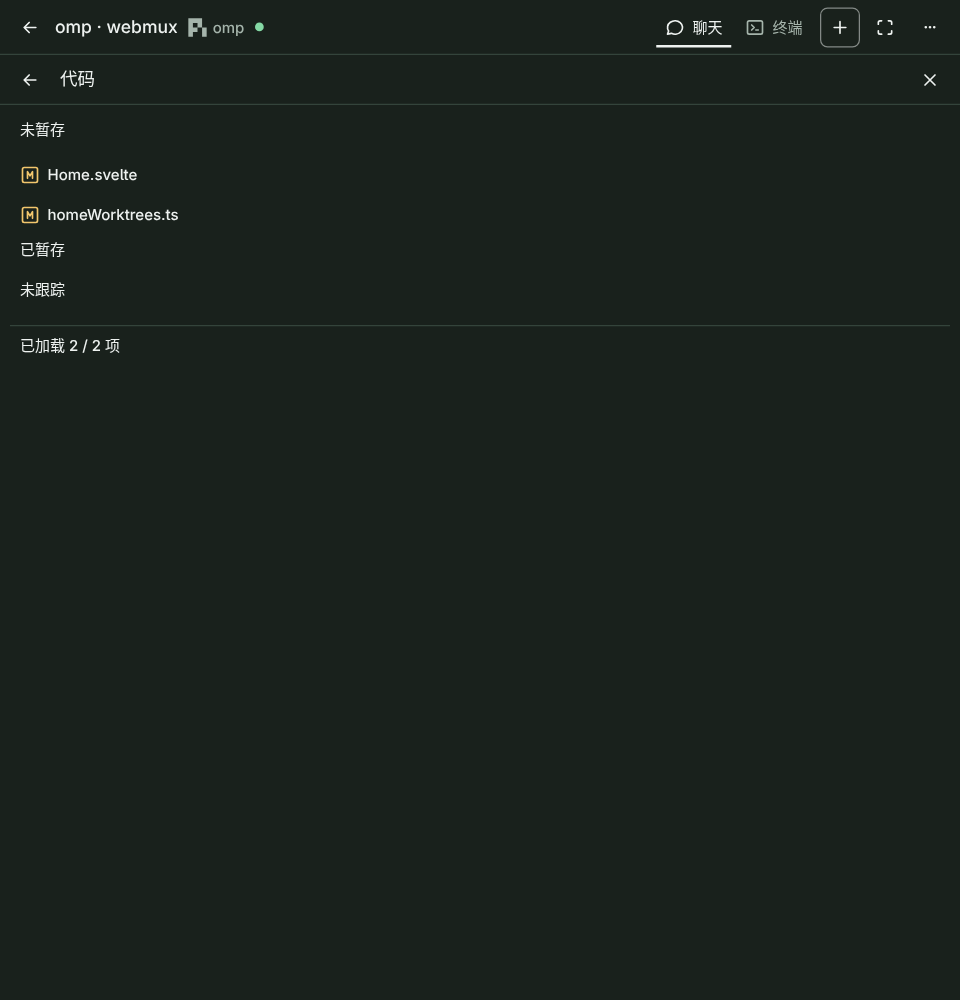
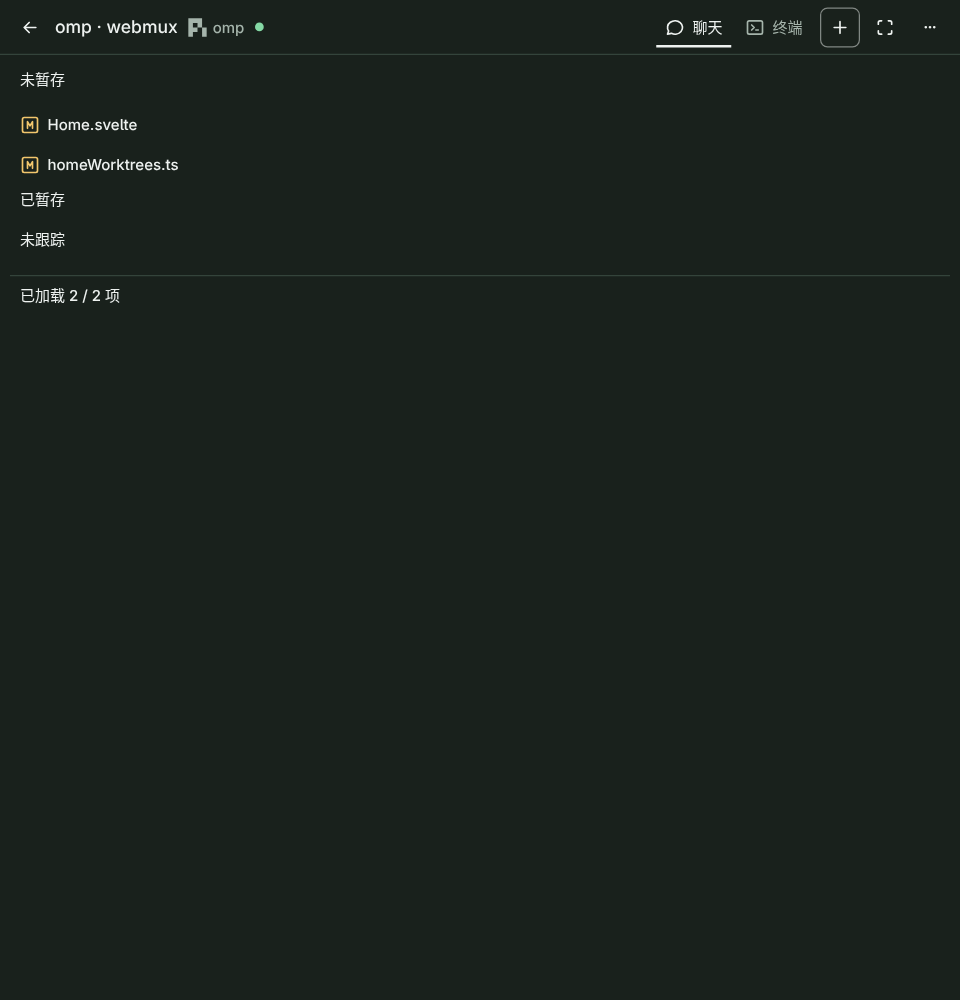
fix(web): preserve the original code workspace layout

Changed region(s): [[0.0, 0.062, 0.1875, 0.31], [0.0312, 0.341, 0.125, 0.372]]

diff --git a/web/src/components/SessionSidePanel.svelte b/web/src/components/SessionSidePanel.svelte
@@ -36,9 +36,15 @@
     view = next;
     void tick().then(() => {
       if (!shown) return;
-      panel
-        ?.querySelector<HTMLButtonElement>('[aria-label="返回面板选择"]')
-        ?.focus();
+      if (next === "code") {
+        const target =
+          panel?.querySelector<HTMLElement>(".code-panel button") ?? panel;
+        target?.focus();
+      } else {
+        panel
+          ?.querySelector<HTMLButtonElement>('[aria-label="返回面板选择"]')
+          ?.focus();
+      }
     });
   }
 
@@ -56,30 +62,31 @@
 
 <section
   bind:this={panel}
-  class="flex h-full min-h-0 min-w-0 flex-col bg-card"
+  class="flex h-full min-h-0 min-w-0 flex-col bg-card outline-none"
   aria-label="侧栏面板"
+  tabindex="-1"
 >
-  <header class="flex h-10 shrink-0 items-center gap-2 border-b px-2">
-    {#if view !== "picker"}
+  {#if view !== "code"}
+    <header class="flex h-10 shrink-0 items-center gap-2 border-b px-2">
+      {#if view === "split"}
+        <Button
+          variant="ghost"
+          size="icon-sm"
+          aria-label="返回面板选择"
+          title="返回面板选择"
+          onclick={back}><IconArrowLeft aria-hidden="true" /></Button
+        >
+        <h2 class="min-w-0 flex-1 text-sm font-medium">分屏</h2>
+      {:else}<span class="flex-1"></span>{/if}
       <Button
         variant="ghost"
         size="icon-sm"
-        aria-label="返回面板选择"
-        title="返回面板选择"
-        onclick={back}><IconArrowLeft aria-hidden="true" /></Button
+        aria-label="关闭侧栏面板"
+        title="关闭侧栏面板"
+        onclick={close}><IconX aria-hidden="true" /></Button
       >
-      <h2 class="min-w-0 flex-1 text-sm font-medium">
-        {view === "code" ? "代码" : "分屏"}
-      </h2>
-    {:else}<span class="flex-1"></span>{/if}
-    <Button
-      variant="ghost"
-      size="icon-sm"
-      aria-label="关闭侧栏面板"
-      title="关闭侧栏面板"
-      onclick={close}><IconX aria-hidden="true" /></Button
-    >
-  </header>
+    </header>
+  {/if}
   <div class="relative flex min-h-0 flex-1 flex-col overflow-y-auto">
     {#if view === "picker"}
       <div

diff --git a/web/test/e2e/app-shell.spec.ts b/web/test/e2e/app-shell.spec.ts
@@ -240,6 +240,11 @@ test.describe("desktop sidebar", () => {
     await page.getByRole("button", { name: "代码", exact: true }).click();
     await expect(note).toBeVisible();
     await expect(note).toHaveAttribute("aria-selected", "true");
+    expect(await code.boundingBox()).toEqual(
+      await page
+        .getByRole("region", { name: "侧栏面板", exact: true })
+        .boundingBox(),
+    );
     const before = await width();
     await page.getByRole("separator", { name: "调整终端与代码宽度" }).focus();
     for (let i = 0; i < 3; i++) await page.keyboard.press("ArrowLeft");

diff --git a/web/test/e2e/fixtures.ts b/web/test/e2e/fixtures.ts
@@ -427,9 +427,10 @@ async function openPanelPicker(scope: Locator | Page) {
 }
 
 export async function toggleCode(scope: Locator | Page) {
-  if (await scope.locator(".code-pane").isVisible())
+  if (await scope.locator(".code-pane").isVisible()) {
+    await openPanelPicker(scope);
     await scope
       .getByRole("button", { name: "关闭侧栏面板", exact: true })
       .click();
-  else await (await openPanelPicker(scope)).click();
+  } else await (await openPanelPicker(scope)).click();
 }

diff --git a/docs/user-stories/verification-log-2026-11-06.md b/docs/user-stories/verification-log-2026-11-06.md
@@ -80,7 +80,7 @@
 - 范围：保留聊天/终端切换与其他工具的位置；支持返回选择页、关闭侧栏、选择页内 C/S 快捷键；切回选择页不销毁代码标签，执行分屏操作前关闭选择侧栏。
 - 前端：应用、测试与 Storybook 类型检查、Oxlint、前端架构守卫、源码格式检查通过；`TerminalHybrid`、`CodePanel` 浏览器组件测试共 31 项通过。
 - E2E：分批运行桌面与 iPhone SE Chromium 下的分屏、混合会话、紧凑顶栏、外壳、代码、独立窗口、新建/切换会话、后台分屏、附件、草稿、生命周期、Markdown 与终端用例。
-- 修正遗留旧代码按钮定位，以及新增侧栏头部后应按外层侧栏测量的全高断言；独立窗口用例在后续批次通过，全高场景桌面与手机定向复测均通过。
+- 修正遗留旧代码按钮定位，并移除代码页额外头部；`CodePanel`、`CodeWorkspace`、`TerminalWorkspace` 保持原版。新增代码区与侧栏边界一致的断言，相关长期 E2E 用例追加复测 120 项通过。
 - 视觉：核对 1280×720、768×800、390×844、375×667、320×568、667×375 的明暗主题，侧栏均在视口内且无页面横向溢出；验证选择页被所选内容替换及 C/S 键盘选择。
-- 证据：保存 1280×900、768×800、390×844 的同主题、同演示数据前后对比与选择页截图，以及正常速度的完整开合/切换 GIF。
+- 证据：保存 1280×900、768×800、390×844 的明暗主题前后对比、选择页及真实 PTY 应用源码截图，更新正常速度交互 GIF；桌面 Storybook 代码内容区裁剪与基线的明暗主题像素差异均为 0。
 - 限制：使用隔离演示数据及 fake agent；未验证真实悬停/粗指针硬件或 iOS/Android 真机软键盘，未重新核验其余故事能力。

diff --git a/docs/user-stories/terminal.md b/docs/user-stories/terminal.md
@@ -287,7 +287,7 @@
   验收要点：
   - 窄于 640px 时顶栏单行且不横向滚动，保留返回、状态点加标题、聊天与终端的“会话视图”切换、“打开面板”和终端菜单；
   - “打开面板”在手机与桌面均展开右侧栏，先显示标题为“打开面板”、仅含“代码”“分屏”两个按钮的选择页；选择后以代码工作区或原有全部分屏选项替换选择页，不使用下拉菜单或子菜单；
-  - 代码页与分屏页头部均提供“返回面板选择”和“关闭侧栏面板”按钮，分别回到选择页与关闭整个侧栏；终端菜单不再重复分屏组；
+  - 选择页提供“关闭侧栏面板”，分屏页头部提供“返回面板选择”和“关闭侧栏面板”；代码页保持原有布局，不新增头部，点击会话页右上角“打开面板”回到选择页后关闭侧栏；终端菜单不再重复分屏组；
   - 状态点在标题之前；连接异常时点脉动（尊重减少动效设置），“重连中”等文字显示在标题下方小字，不挤掉标题；
   - 草稿开关在触屏软键栏快捷指令旁，软键栏隐藏（代码视图或非触屏窄屏）时在终端菜单首组；
   - 终端菜单按“会话 / 剪贴板 / 终端 / 显示”分组，窄屏另含全屏、上传文件、快捷键，名称与禁用条件不变；滚动到最新位置由终端内“回到最新”浮动按钮承担；

diff --git a/docs/usage/code.md b/docs/usage/code.md
@@ -10,7 +10,7 @@
 
 ## 功能一览
 
-点击“打开面板”先展开标题为“打开面板”的右侧栏选择页，再点击“代码”按钮，选择页随即替换为代码工作区。侧栏头部的“返回面板选择”回到选择页，“关闭侧栏面板”关闭整个侧栏。终端始终保持同一个 PTY 并持续接收输出。
+点击“打开面板”先展开标题为“打开面板”的右侧栏选择页，再点击“代码”按钮，选择页随即替换为代码工作区。代码工作区保留原有布局，不增加侧栏头部；再次点击会话页右上角的“打开面板”回到选择页，再点击选择页的“关闭侧栏面板”关闭侧栏。终端始终保持同一个 PTY 并持续接收输出。
 在聊天模式或工作台模式中切换不同会话时，代码面板的开合状态与分栏宽度保持不变；回到先前的会话时，该会话已打开的文件标签、当前标签与阅读位置按离开时恢复。
 
 - **布局**：宽屏（≥1024px）并排显示，窄屏在“终端 / 代码”之间切换。导航开关、文件标签、“刷新全部”和独立窗口按钮在同一行；代码根目录显示在导航面板顶部。

diff --git a/docs/user-stories/code-and-worktrees.md b/docs/user-stories/code-and-worktrees.md
@@ -5,7 +5,7 @@
 - **US-I01 边用终端边看代码**：作为遥控开发任务的使用者，我希望在会话旁打开代码工作区，以便核对 agent 的工作而不离开终端。
   验收要点：
   - 点击“打开面板”先展开右侧栏选择页，选择“代码”后以代码工作区替换选择页，而非打开下拉菜单；
-  - 侧栏头部返回箭头回到选择页，关闭按钮关闭整个侧栏；宽屏并排且可调整分栏，窄屏切换终端与代码；
+  - 代码工作区保持原有布局，不增加侧栏头部；再次点击会话页右上角“打开面板”回到选择页，通过选择页“关闭侧栏面板”关闭整个侧栏；宽屏并排且可调整分栏，窄屏切换终端与代码；
   - 导航开关、文件标签、刷新全部与独立窗口同在一行，根路径与导航状态提示在导航面板顶部；
   - 代码导航可折叠、调整宽度；
   - 窄于 640px 时文档栏操作收进“代码菜单”（显示完整路径），文档提示仍直接显示，Diff 内容区不少于 393×851 视口高度的 70%；

diff --git a/docs/usage/terminal.md b/docs/usage/terminal.md
@@ -20,7 +20,7 @@
 
 - 窗口窄于 640px（手机竖屏）时，顶栏保持单行，通过“会话视图”切换聊天与终端，“打开面板”统一提供代码与分屏入口：
   - 草稿开关在软键栏，全屏和上传文件移到终端菜单；向上翻看历史时，终端右下角出现“回到最新”按钮。
-  - 点击“打开面板”展开右侧栏的选择页；选择“代码”或“分屏”后，当前选择页被对应内容替换。头部返回箭头回到选择页，关闭按钮关闭整个侧栏，手机与桌面操作一致。
+  - 点击“打开面板”展开右侧栏的选择页；选择“代码”或“分屏”后，当前选择页被对应内容替换。代码页再次点击右上角“打开面板”回到选择页；分屏页可用头部返回箭头回到选择页。选择页和分屏页的关闭按钮关闭整个侧栏，手机与桌面操作一致。
 - 已退出的会话保留退出码和最后输出，直到手动移除。
 - 关闭会话先发送 SIGHUP，5 秒后仍未退出则发送 SIGKILL，并清理整个进程树。
 
